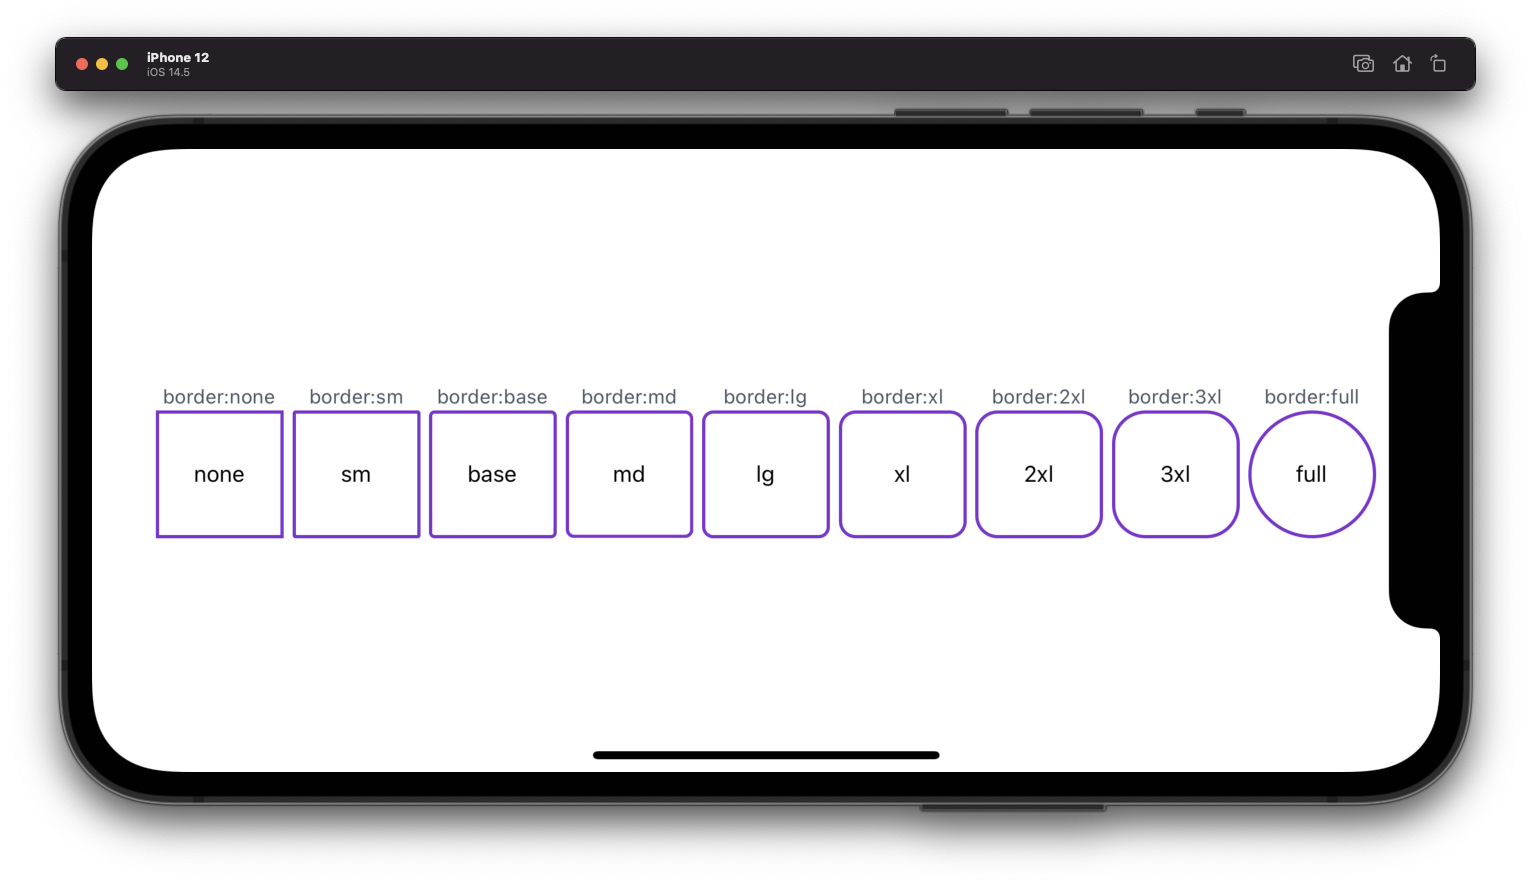
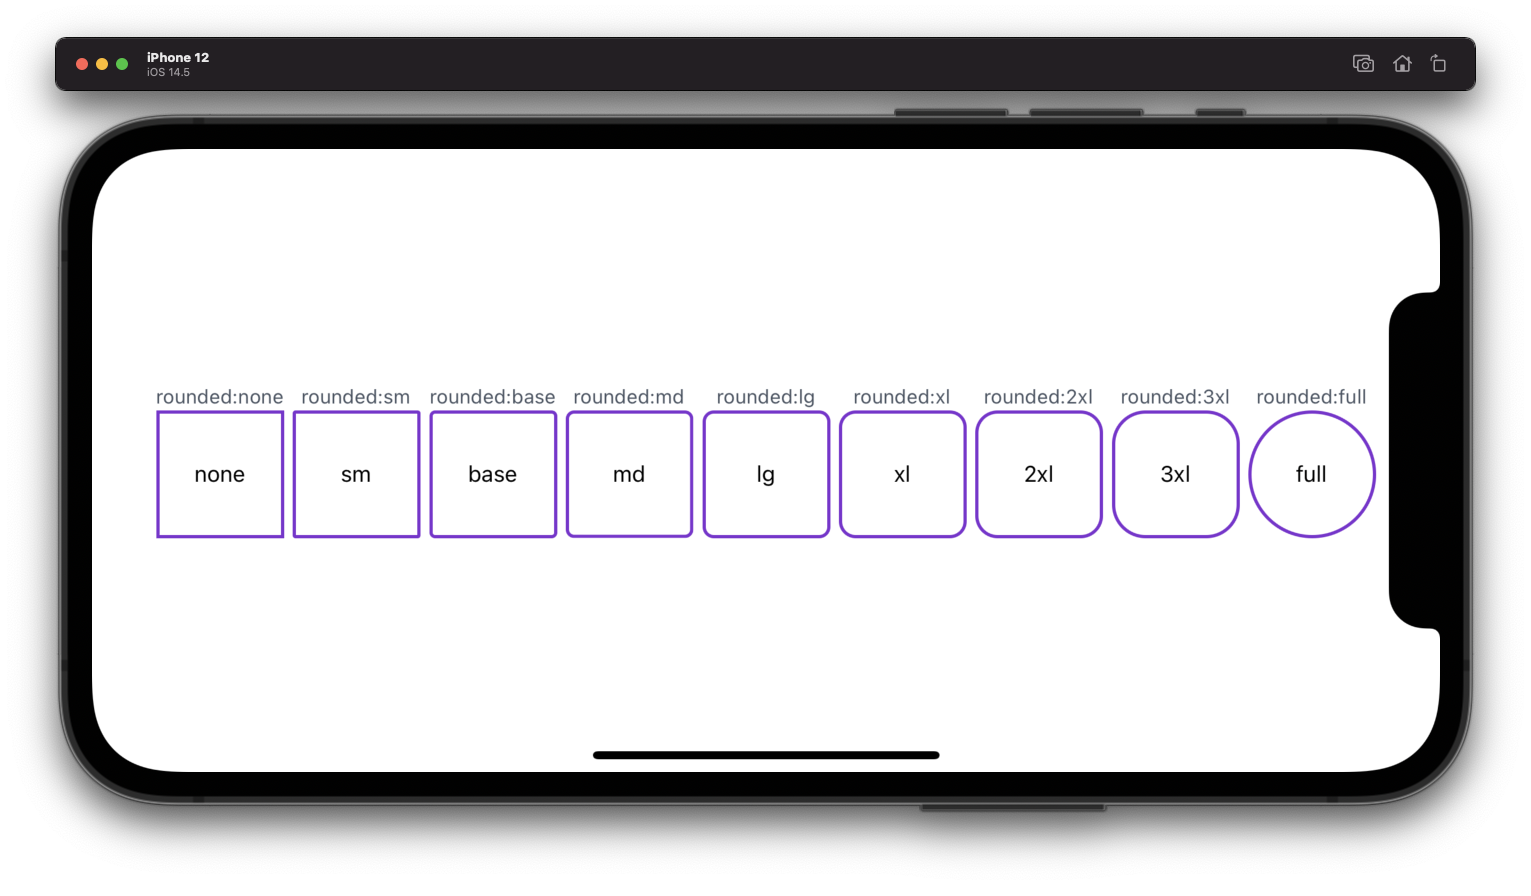
Fix label on borderRadii

diff --git a/sample/DefaultBorderRadii.tsx b/sample/DefaultBorderRadii.tsx
@@ -17,7 +17,7 @@ export const DefaultBorderRadii: React.FC<DefaultBorderRadiiProps> = () => {
     >
       {Object.keys(constraints.borderRadii).map((key) => (
         <View key={key} style={sb("items:center")}>
-          <Text style={sb("text:sm", "color:gray-600")}>border:{key}</Text>
+          <Text style={sb("text:sm", "color:gray-600")}>rounded:{key}</Text>
           <View
             style={sb(
               "border:2",

diff --git a/sample/App.tsx b/sample/App.tsx
@@ -1,11 +1,12 @@
 import * as React from "react";
 import { createStyleBuilder, defaultConstraints } from "./lib";
 import { DefaultAspectRatios } from "./DefaultAspectRatios";
+import { DefaultBorderRadii } from "./DefaultBorderRadii";
 
 const { builder: sb } = createStyleBuilder(defaultConstraints);
 
 const App: React.FC = () => {
-  return <DefaultAspectRatios />;
+  return <DefaultBorderRadii />;
 };
 
 export default App;
